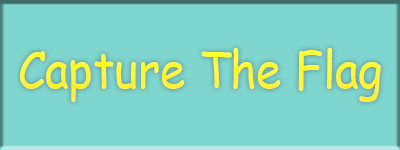
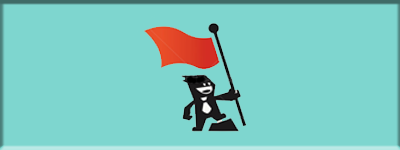
better GUI

Changed region(s): [[0.03, 0.1333, 0.96, 0.88], [0.99, 0.0267, 1.0, 0.9867]]

diff --git a/Games/captureTheFlag.py b/Games/captureTheFlag.py
@@ -43,6 +43,7 @@ class CaptureTheFlag:
         self.current_player = None
 
 
+
     def run(self):
         self.velocity = self.orch.drone_velocity
         self.step_size = self.orch.drone_step_size
@@ -56,7 +57,13 @@ class CaptureTheFlag:
         if not self.running:
             return
 
-        self.displayManager.reset_main_rect(picture_name=CTF_IMAGE)
+        if self.current_mode == 'computerVsPlayer':
+            self.displayManager.reset_main_rect(picture_name='computerVsPlayer.png')
+        if self.current_mode == 'computerVsComputer':
+            self.displayManager.reset_main_rect(picture_name='computerVsComputer.png')
+        if self.current_mode == 'playerVsPlayer':
+            self.displayManager.reset_main_rect(picture_name='playerVsPlayer.png')
+
         self.displayManager.text_line.set_text('capture the flag')
         self.displayManager.board.display = True
         self.displayManager.batteriesDisplay.display = True
@@ -258,6 +265,7 @@ class CaptureTheFlag:
             self.getting = False
 
     def com_com_update(self):
+        self.current_mode = 'computerVsComputer'
         for i in range(2):
             self.players[i].name = 'computer {}'.format(i+1)
             self.players[i].prepare_to_turn = self.computer_player_prepare_to_turn
@@ -265,6 +273,7 @@ class CaptureTheFlag:
             self.players[i].winner_message = 'computer {} wins'.format(i+1)
 
     def com_player_update(self):
+        self.current_mode = 'computerVsPlayer'
         self.players[0].name = 'computer'
         self.players[1].name = 'your'
 
@@ -278,6 +287,7 @@ class CaptureTheFlag:
         self.players[1].winner_message = 'YOU ARE THE WINNER'
 
     def player_player_update(self):
+        self.current_mode = 'playerVsPlayer'
         for i in range(2):
             self.players[i].name = 'player {}'.format(i+1)
             self.players[i].prepare_to_turn = self.human_player_prepare_to_turn

diff --git a/crazyGame.py b/crazyGame.py
@@ -17,7 +17,7 @@ GAMES = {'capture the flag': captureTheFlag.CaptureTheFlag,
 
 games_buttons_images = {'capture the flag': ['button_unpressed_ctf.png', 'button_pressed_ctf.png'],
                          'sandbox': ['droneControl_demo_unpressed.png', 'droneControl_demo_pressed.png'],
-                         'grab all flags': ['button_unpressed_ctf.png', 'button_pressed_ctf.png']}
+                         'grab all flags': ['button_unpressed_cta.png', 'button_pressed_cta.png']}
 
 games_images = {'capture the flag': 'capture_the_flag.png',
                 'sandbox': 'capture_the_flag.png',
